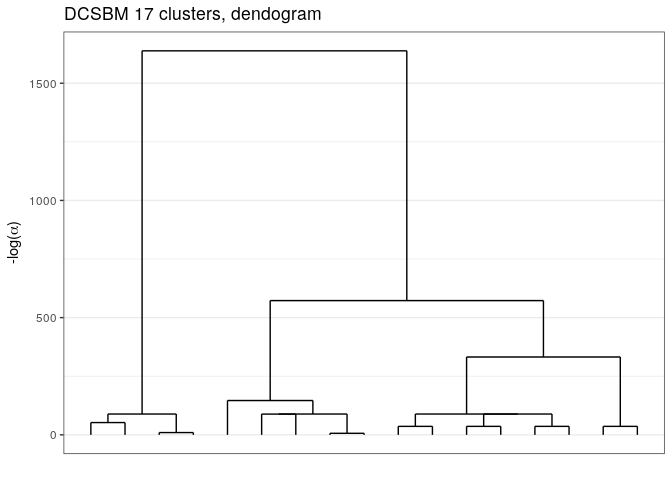
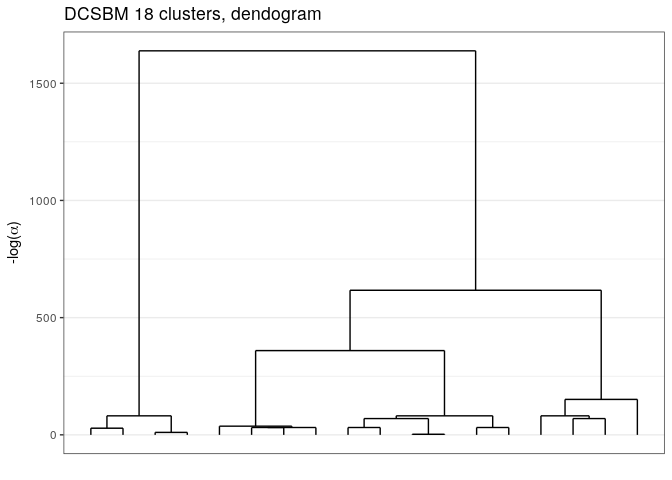
readme rmd

Changed region(s): [[0.3125, 0.5938, 0.9688, 0.9062], [0.125, 0.0938, 0.2812, 0.9062], [0.5938, 0.0938, 0.7188, 0.125]]

diff --git a/README.md b/README.md
@@ -54,10 +54,10 @@ library(greed)
 data(Jazz)
 sol=greed(Jazz)
 #> ------- Fitting a dcsbm model ------
-#> ################# Generation  1: best solution with an ICL of -29413 and 17 clusters #################
-#> ################# Generation  2: best solution with an ICL of -29376 and 15 clusters #################
-#> ################# Generation  3: best solution with an ICL of -29317 and 17 clusters #################
-#> ################# Generation  4: best solution with an ICL of -29317 and 17 clusters #################
+#> ################# Generation  1: best solution with an ICL of -29416 and 16 clusters #################
+#> ################# Generation  2: best solution with an ICL of -29345 and 19 clusters #################
+#> ################# Generation  3: best solution with an ICL of -29313 and 19 clusters #################
+#> ################# Generation  4: best solution with an ICL of -29313 and 19 clusters #################
 ```
 
 Some plotting function enable the exploraiton of the clustering results:
@@ -66,7 +66,7 @@ Some plotting function enable the exploraiton of the clustering results:
 plot(sol)
 ```
 
-<img src="man/figures/README-plot-1.png" width="100%" />
+<img src="man/figures/README-plot-1.png" width="60%" />
 
 And the hierarhical structure between clusters:
 
@@ -74,7 +74,7 @@ And the hierarhical structure between clusters:
 plot(sol,type='tree')
 ```
 
-<img src="man/figures/README-tree-1.png" width="100%" />
+<img src="man/figures/README-tree-1.png" width="60%" />
 
 Eventually, one may explore some coarser clustering using the cut
 function:
@@ -83,4 +83,4 @@ function:
 plot(cut(sol,5))
 ```
 
-<img src="man/figures/README-cut-1.png" width="100%" />
+<img src="man/figures/README-cut-1.png" width="60%" />
